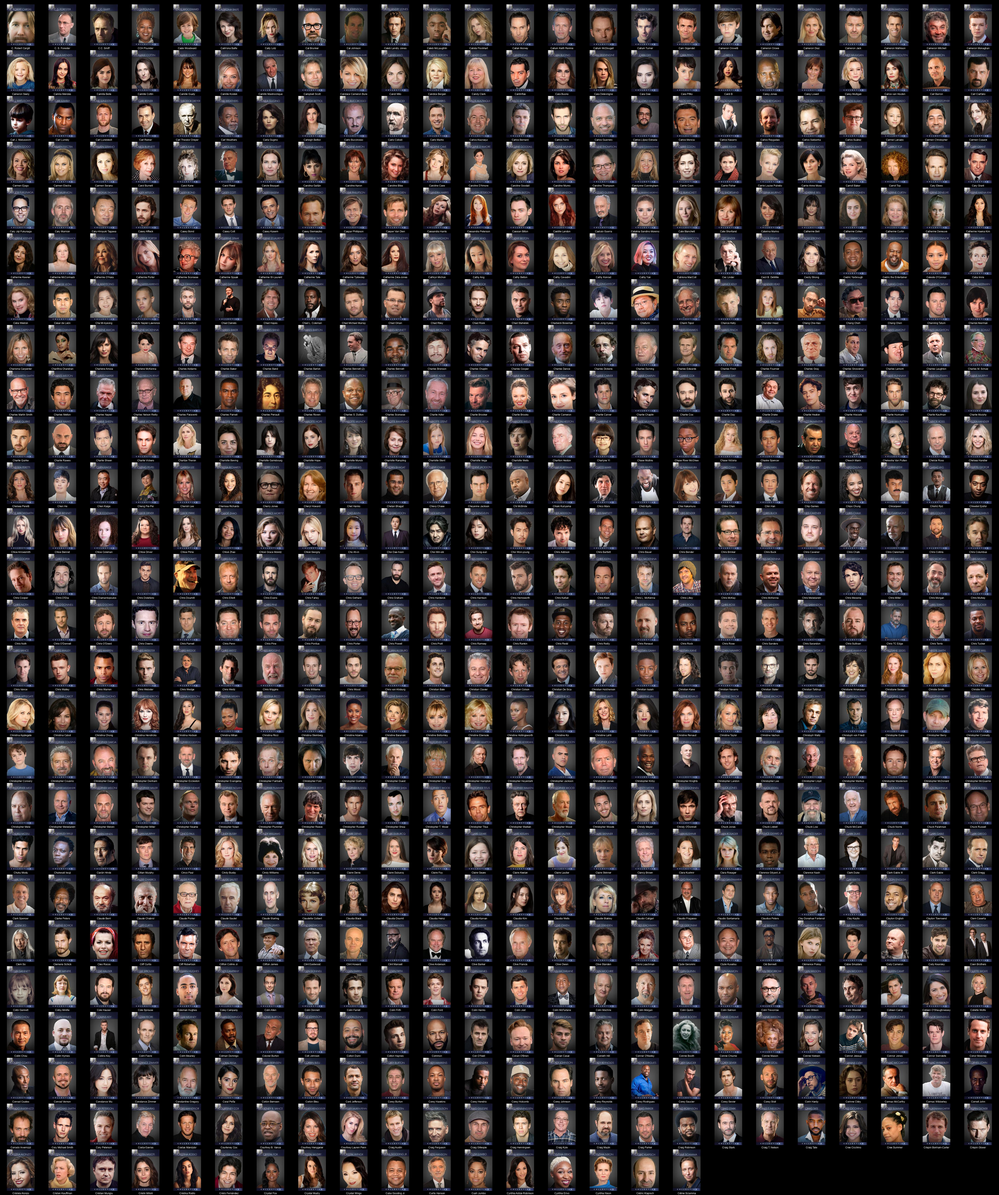
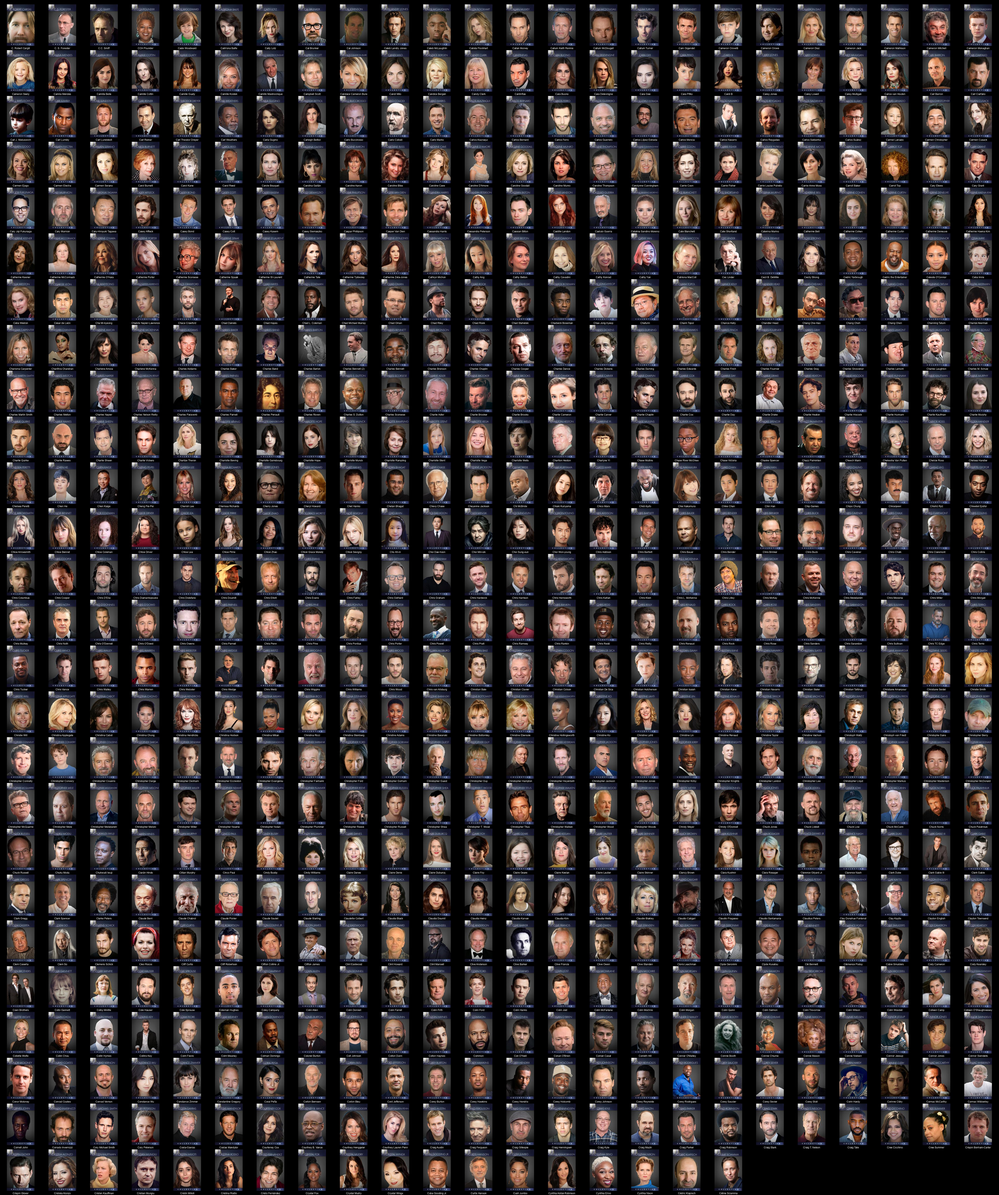
Readme Update

Changed region(s): [[0.0, 0.4054, 1.0, 1.0]]

diff --git a/README.md b/README.md
@@ -1,4 +1,4 @@
-# Kometa People Images - DIIIVOY Color (diiivoycolor) (9553 Images)
+# Kometa People Images - DIIIVOY Color (diiivoycolor) (9558 Images)
 
 <details><summary><a href="'">' (1 Images)</a></summary>
 
@@ -1264,7 +1264,7 @@
 * [Béla Tarr](https://raw.githubusercontent.com/Kometa-Team/People-Images-diiivoycolor/master/B/Images/B%C3%A9la%20Tarr.jpg)
 * [Bérénice Bejo](https://raw.githubusercontent.com/Kometa-Team/People-Images-diiivoycolor/master/B/Images/B%C3%A9r%C3%A9nice%20Bejo.jpg)
 </details>
-<details><summary><a href="C">C (617 Images)</a></summary>
+<details><summary><a href="C">C (618 Images)</a></summary>
 
 * [C. Robert Cargill](https://raw.githubusercontent.com/Kometa-Team/People-Images-diiivoycolor/master/C/Images/C.%20Robert%20Cargill.jpg)
 * [C. S. Forester](https://raw.githubusercontent.com/Kometa-Team/People-Images-diiivoycolor/master/C/Images/C.%20S.%20Forester.jpg)
@@ -1534,6 +1534,7 @@
 * [Chloe Bennet](https://raw.githubusercontent.com/Kometa-Team/People-Images-diiivoycolor/master/C/Images/Chloe%20Bennet.jpg)
 * [Chloe Coleman](https://raw.githubusercontent.com/Kometa-Team/People-Images-diiivoycolor/master/C/Images/Chloe%20Coleman.jpg)
 * [Chloe Driver](https://raw.githubusercontent.com/Kometa-Team/People-Images-diiivoycolor/master/C/Images/Chloe%20Driver.jpg)
+* [Chloe Lea](https://raw.githubusercontent.com/Kometa-Team/People-Images-diiivoycolor/master/C/Images/Chloe%20Lea.jpg)
 * [Chloe Pirrie](https://raw.githubusercontent.com/Kometa-Team/People-Images-diiivoycolor/master/C/Images/Chloe%20Pirrie.jpg)
 * [Chloé Zhao](https://raw.githubusercontent.com/Kometa-Team/People-Images-diiivoycolor/master/C/Images/Chlo%C3%A9%20Zhao.jpg)
 * [Chloë Grace Moretz](https://raw.githubusercontent.com/Kometa-Team/People-Images-diiivoycolor/master/C/Images/Chlo%C3%AB%20Grace%20Moretz.jpg)
@@ -3016,7 +3017,7 @@
 * [Fritz von Friedl](https://raw.githubusercontent.com/Kometa-Team/People-Images-diiivoycolor/master/F/Images/Fritz%20von%20Friedl.jpg)
 * [Frédéric North](https://raw.githubusercontent.com/Kometa-Team/People-Images-diiivoycolor/master/F/Images/Fr%C3%A9d%C3%A9ric%20North.jpg)
 </details>
-<details><summary><a href="G">G (322 Images)</a></summary>
+<details><summary><a href="G">G (323 Images)</a></summary>
 
 * [G-Eazy](https://raw.githubusercontent.com/Kometa-Team/People-Images-diiivoycolor/master/G/Images/G-Eazy.jpg)
 * [G. D. Spradlin](https://raw.githubusercontent.com/Kometa-Team/People-Images-diiivoycolor/master/G/Images/G.%20D.%20Spradlin.jpg)
@@ -3160,6 +3161,7 @@
 * [Georgie Henley](https://raw.githubusercontent.com/Kometa-Team/People-Images-diiivoycolor/master/G/Images/Georgie%20Henley.jpg)
 * [Georgina Cates](https://raw.githubusercontent.com/Kometa-Team/People-Images-diiivoycolor/master/G/Images/Georgina%20Cates.jpg)
 * [Georgina Leonidas](https://raw.githubusercontent.com/Kometa-Team/People-Images-diiivoycolor/master/G/Images/Georgina%20Leonidas.jpg)
+* [Gerald Early](https://raw.githubusercontent.com/Kometa-Team/People-Images-diiivoycolor/master/G/Images/Gerald%20Early.jpg)
 * [Gerald McRaney](https://raw.githubusercontent.com/Kometa-Team/People-Images-diiivoycolor/master/G/Images/Gerald%20McRaney.jpg)
 * [Gerald R. Molen](https://raw.githubusercontent.com/Kometa-Team/People-Images-diiivoycolor/master/G/Images/Gerald%20R.%20Molen.jpg)
 * [Gerald Thomas](https://raw.githubusercontent.com/Kometa-Team/People-Images-diiivoycolor/master/G/Images/Gerald%20Thomas.jpg)
@@ -3695,7 +3697,7 @@
 * [Izaac Wang](https://raw.githubusercontent.com/Kometa-Team/People-Images-diiivoycolor/master/I/Images/Izaac%20Wang.jpg)
 * [Izabella Scorupco](https://raw.githubusercontent.com/Kometa-Team/People-Images-diiivoycolor/master/I/Images/Izabella%20Scorupco.jpg)
 </details>
-<details><summary><a href="J">J (1178 Images)</a></summary>
+<details><summary><a href="J">J (1180 Images)</a></summary>
 
 * [J'Dvonte](https://raw.githubusercontent.com/Kometa-Team/People-Images-diiivoycolor/master/J/Images/J%27Dvonte.jpg)
 * [J. A. Bayona](https://raw.githubusercontent.com/Kometa-Team/People-Images-diiivoycolor/master/J/Images/J.%20A.%20Bayona.jpg)
@@ -3791,6 +3793,7 @@
 * [Jacques Rivette](https://raw.githubusercontent.com/Kometa-Team/People-Images-diiivoycolor/master/J/Images/Jacques%20Rivette.jpg)
 * [Jacques Tourneur](https://raw.githubusercontent.com/Kometa-Team/People-Images-diiivoycolor/master/J/Images/Jacques%20Tourneur.jpg)
 * [Jada Pinkett Smith](https://raw.githubusercontent.com/Kometa-Team/People-Images-diiivoycolor/master/J/Images/Jada%20Pinkett%20Smith.jpg)
+* [Jade Anouka](https://raw.githubusercontent.com/Kometa-Team/People-Images-diiivoycolor/master/J/Images/Jade%20Anouka.jpg)
 * [Jade Ma](https://raw.githubusercontent.com/Kometa-Team/People-Images-diiivoycolor/master/J/Images/Jade%20Ma.jpg)
 * [Jade Xu](https://raw.githubusercontent.com/Kometa-Team/People-Images-diiivoycolor/master/J/Images/Jade%20Xu.jpg)
 * [Jaeden Martell](https://raw.githubusercontent.com/Kometa-Team/People-Images-diiivoycolor/master/J/Images/Jaeden%20Martell.jpg)
@@ -4332,6 +4335,7 @@
 * [Joaquín Cosío](https://raw.githubusercontent.com/Kometa-Team/People-Images-diiivoycolor/master/J/Images/Joaqu%C3%ADn%20Cos%C3%ADo.jpg)
 * [Joaquín Martínez](https://raw.githubusercontent.com/Kometa-Team/People-Images-diiivoycolor/master/J/Images/Joaqu%C3%ADn%20Mart%C3%ADnez.jpg)
 * [Jodelle Ferland](https://raw.githubusercontent.com/Kometa-Team/People-Images-diiivoycolor/master/J/Images/Jodelle%20Ferland.jpg)
+* [Jodhi May](https://raw.githubusercontent.com/Kometa-Team/People-Images-diiivoycolor/master/J/Images/Jodhi%20May.jpg)
 * [Jodi Benson](https://raw.githubusercontent.com/Kometa-Team/People-Images-diiivoycolor/master/J/Images/Jodi%20Benson.jpg)
 * [Jodi Lyn O'Keefe](https://raw.githubusercontent.com/Kometa-Team/People-Images-diiivoycolor/master/J/Images/Jodi%20Lyn%20O%27Keefe.jpg)
 * [Jodie Comer](https://raw.githubusercontent.com/Kometa-Team/People-Images-diiivoycolor/master/J/Images/Jodie%20Comer.jpg)
@@ -8017,7 +8021,7 @@
 * [Ryunosuke Kamiki](https://raw.githubusercontent.com/Kometa-Team/People-Images-diiivoycolor/master/R/Images/Ryunosuke%20Kamiki.jpg)
 * [Ryusuke Hamaguchi](https://raw.githubusercontent.com/Kometa-Team/People-Images-diiivoycolor/master/R/Images/Ryusuke%20Hamaguchi.jpg)
 </details>
-<details><summary><a href="S">S (684 Images)</a></summary>
+<details><summary><a href="S">S (685 Images)</a></summary>
 
 * [S. S. Rajamouli](https://raw.githubusercontent.com/Kometa-Team/People-Images-diiivoycolor/master/S/Images/S.%20S.%20Rajamouli.jpg)
 * [Saagar Shaikh](https://raw.githubusercontent.com/Kometa-Team/People-Images-diiivoycolor/master/S/Images/Saagar%20Shaikh.jpg)
@@ -8159,6 +8163,7 @@
 * [Sarah Wright](https://raw.githubusercontent.com/Kometa-Team/People-Images-diiivoycolor/master/S/Images/Sarah%20Wright.jpg)
 * [Sarah-Jeanne Labrosse](https://raw.githubusercontent.com/Kometa-Team/People-Images-diiivoycolor/master/S/Images/Sarah-Jeanne%20Labrosse.jpg)
 * [Sarah-Nicole Robles](https://raw.githubusercontent.com/Kometa-Team/People-Images-diiivoycolor/master/S/Images/Sarah-Nicole%20Robles.jpg)
+* [Sarah-Sofie Boussnina](https://raw.githubusercontent.com/Kometa-Team/People-Images-diiivoycolor/master/S/Images/Sarah-Sofie%20Boussnina.jpg)
 * [Sarita Choudhury](https://raw.githubusercontent.com/Kometa-Team/People-Images-diiivoycolor/master/S/Images/Sarita%20Choudhury.jpg)
 * [Sarma Melngailis](https://raw.githubusercontent.com/Kometa-Team/People-Images-diiivoycolor/master/S/Images/Sarma%20Melngailis.jpg)
 * [Sasha Barrese](https://raw.githubusercontent.com/Kometa-Team/People-Images-diiivoycolor/master/S/Images/Sasha%20Barrese.jpg)

diff --git a/J/README.md b/J/README.md
@@ -1,4 +1,4 @@
-# Kometa People Images - DIIIVOY Color (diiivoycolor) - J (1178 Images)
+# Kometa People Images - DIIIVOY Color (diiivoycolor) - J (1180 Images)
 ![Grid](grid.jpg)
 
 * [J'Dvonte](https://raw.githubusercontent.com/Kometa-Team/People-Images-diiivoycolor/master/J/Images/J%27Dvonte.jpg)
@@ -95,6 +95,7 @@
 * [Jacques Rivette](https://raw.githubusercontent.com/Kometa-Team/People-Images-diiivoycolor/master/J/Images/Jacques%20Rivette.jpg)
 * [Jacques Tourneur](https://raw.githubusercontent.com/Kometa-Team/People-Images-diiivoycolor/master/J/Images/Jacques%20Tourneur.jpg)
 * [Jada Pinkett Smith](https://raw.githubusercontent.com/Kometa-Team/People-Images-diiivoycolor/master/J/Images/Jada%20Pinkett%20Smith.jpg)
+* [Jade Anouka](https://raw.githubusercontent.com/Kometa-Team/People-Images-diiivoycolor/master/J/Images/Jade%20Anouka.jpg)
 * [Jade Ma](https://raw.githubusercontent.com/Kometa-Team/People-Images-diiivoycolor/master/J/Images/Jade%20Ma.jpg)
 * [Jade Xu](https://raw.githubusercontent.com/Kometa-Team/People-Images-diiivoycolor/master/J/Images/Jade%20Xu.jpg)
 * [Jaeden Martell](https://raw.githubusercontent.com/Kometa-Team/People-Images-diiivoycolor/master/J/Images/Jaeden%20Martell.jpg)
@@ -636,6 +637,7 @@
 * [Joaquín Cosío](https://raw.githubusercontent.com/Kometa-Team/People-Images-diiivoycolor/master/J/Images/Joaqu%C3%ADn%20Cos%C3%ADo.jpg)
 * [Joaquín Martínez](https://raw.githubusercontent.com/Kometa-Team/People-Images-diiivoycolor/master/J/Images/Joaqu%C3%ADn%20Mart%C3%ADnez.jpg)
 * [Jodelle Ferland](https://raw.githubusercontent.com/Kometa-Team/People-Images-diiivoycolor/master/J/Images/Jodelle%20Ferland.jpg)
+* [Jodhi May](https://raw.githubusercontent.com/Kometa-Team/People-Images-diiivoycolor/master/J/Images/Jodhi%20May.jpg)
 * [Jodi Benson](https://raw.githubusercontent.com/Kometa-Team/People-Images-diiivoycolor/master/J/Images/Jodi%20Benson.jpg)
 * [Jodi Lyn O'Keefe](https://raw.githubusercontent.com/Kometa-Team/People-Images-diiivoycolor/master/J/Images/Jodi%20Lyn%20O%27Keefe.jpg)
 * [Jodie Comer](https://raw.githubusercontent.com/Kometa-Team/People-Images-diiivoycolor/master/J/Images/Jodie%20Comer.jpg)

diff --git a/S/README.md b/S/README.md
@@ -1,4 +1,4 @@
-# Kometa People Images - DIIIVOY Color (diiivoycolor) - S (684 Images)
+# Kometa People Images - DIIIVOY Color (diiivoycolor) - S (685 Images)
 ![Grid](grid.jpg)
 
 * [S. S. Rajamouli](https://raw.githubusercontent.com/Kometa-Team/People-Images-diiivoycolor/master/S/Images/S.%20S.%20Rajamouli.jpg)
@@ -141,6 +141,7 @@
 * [Sarah Wright](https://raw.githubusercontent.com/Kometa-Team/People-Images-diiivoycolor/master/S/Images/Sarah%20Wright.jpg)
 * [Sarah-Jeanne Labrosse](https://raw.githubusercontent.com/Kometa-Team/People-Images-diiivoycolor/master/S/Images/Sarah-Jeanne%20Labrosse.jpg)
 * [Sarah-Nicole Robles](https://raw.githubusercontent.com/Kometa-Team/People-Images-diiivoycolor/master/S/Images/Sarah-Nicole%20Robles.jpg)
+* [Sarah-Sofie Boussnina](https://raw.githubusercontent.com/Kometa-Team/People-Images-diiivoycolor/master/S/Images/Sarah-Sofie%20Boussnina.jpg)
 * [Sarita Choudhury](https://raw.githubusercontent.com/Kometa-Team/People-Images-diiivoycolor/master/S/Images/Sarita%20Choudhury.jpg)
 * [Sarma Melngailis](https://raw.githubusercontent.com/Kometa-Team/People-Images-diiivoycolor/master/S/Images/Sarma%20Melngailis.jpg)
 * [Sasha Barrese](https://raw.githubusercontent.com/Kometa-Team/People-Images-diiivoycolor/master/S/Images/Sasha%20Barrese.jpg)

diff --git a/C/README.md b/C/README.md
@@ -1,4 +1,4 @@
-# Kometa People Images - DIIIVOY Color (diiivoycolor) - C (617 Images)
+# Kometa People Images - DIIIVOY Color (diiivoycolor) - C (618 Images)
 ![Grid](grid.jpg)
 
 * [C. Robert Cargill](https://raw.githubusercontent.com/Kometa-Team/People-Images-diiivoycolor/master/C/Images/C.%20Robert%20Cargill.jpg)
@@ -269,6 +269,7 @@
 * [Chloe Bennet](https://raw.githubusercontent.com/Kometa-Team/People-Images-diiivoycolor/master/C/Images/Chloe%20Bennet.jpg)
 * [Chloe Coleman](https://raw.githubusercontent.com/Kometa-Team/People-Images-diiivoycolor/master/C/Images/Chloe%20Coleman.jpg)
 * [Chloe Driver](https://raw.githubusercontent.com/Kometa-Team/People-Images-diiivoycolor/master/C/Images/Chloe%20Driver.jpg)
+* [Chloe Lea](https://raw.githubusercontent.com/Kometa-Team/People-Images-diiivoycolor/master/C/Images/Chloe%20Lea.jpg)
 * [Chloe Pirrie](https://raw.githubusercontent.com/Kometa-Team/People-Images-diiivoycolor/master/C/Images/Chloe%20Pirrie.jpg)
 * [Chloé Zhao](https://raw.githubusercontent.com/Kometa-Team/People-Images-diiivoycolor/master/C/Images/Chlo%C3%A9%20Zhao.jpg)
 * [Chloë Grace Moretz](https://raw.githubusercontent.com/Kometa-Team/People-Images-diiivoycolor/master/C/Images/Chlo%C3%AB%20Grace%20Moretz.jpg)

diff --git a/G/README.md b/G/README.md
@@ -1,4 +1,4 @@
-# Kometa People Images - DIIIVOY Color (diiivoycolor) - G (322 Images)
+# Kometa People Images - DIIIVOY Color (diiivoycolor) - G (323 Images)
 ![Grid](grid.jpg)
 
 * [G-Eazy](https://raw.githubusercontent.com/Kometa-Team/People-Images-diiivoycolor/master/G/Images/G-Eazy.jpg)
@@ -143,6 +143,7 @@
 * [Georgie Henley](https://raw.githubusercontent.com/Kometa-Team/People-Images-diiivoycolor/master/G/Images/Georgie%20Henley.jpg)
 * [Georgina Cates](https://raw.githubusercontent.com/Kometa-Team/People-Images-diiivoycolor/master/G/Images/Georgina%20Cates.jpg)
 * [Georgina Leonidas](https://raw.githubusercontent.com/Kometa-Team/People-Images-diiivoycolor/master/G/Images/Georgina%20Leonidas.jpg)
+* [Gerald Early](https://raw.githubusercontent.com/Kometa-Team/People-Images-diiivoycolor/master/G/Images/Gerald%20Early.jpg)
 * [Gerald McRaney](https://raw.githubusercontent.com/Kometa-Team/People-Images-diiivoycolor/master/G/Images/Gerald%20McRaney.jpg)
 * [Gerald R. Molen](https://raw.githubusercontent.com/Kometa-Team/People-Images-diiivoycolor/master/G/Images/Gerald%20R.%20Molen.jpg)
 * [Gerald Thomas](https://raw.githubusercontent.com/Kometa-Team/People-Images-diiivoycolor/master/G/Images/Gerald%20Thomas.jpg)
